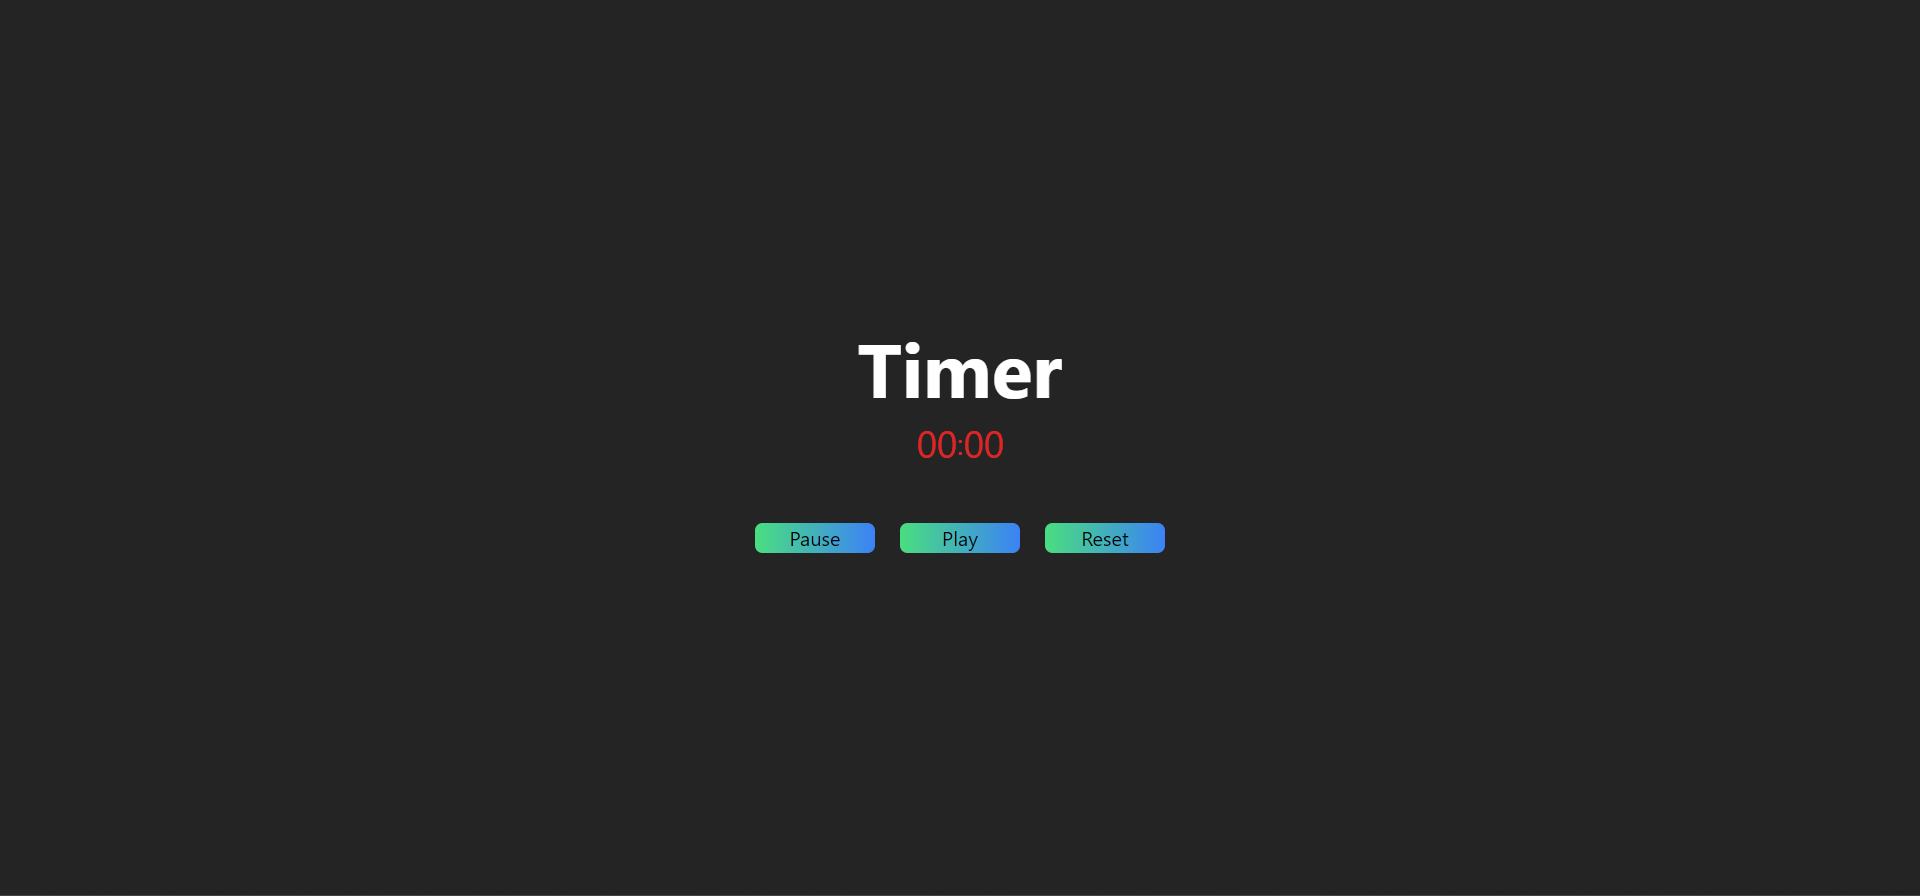
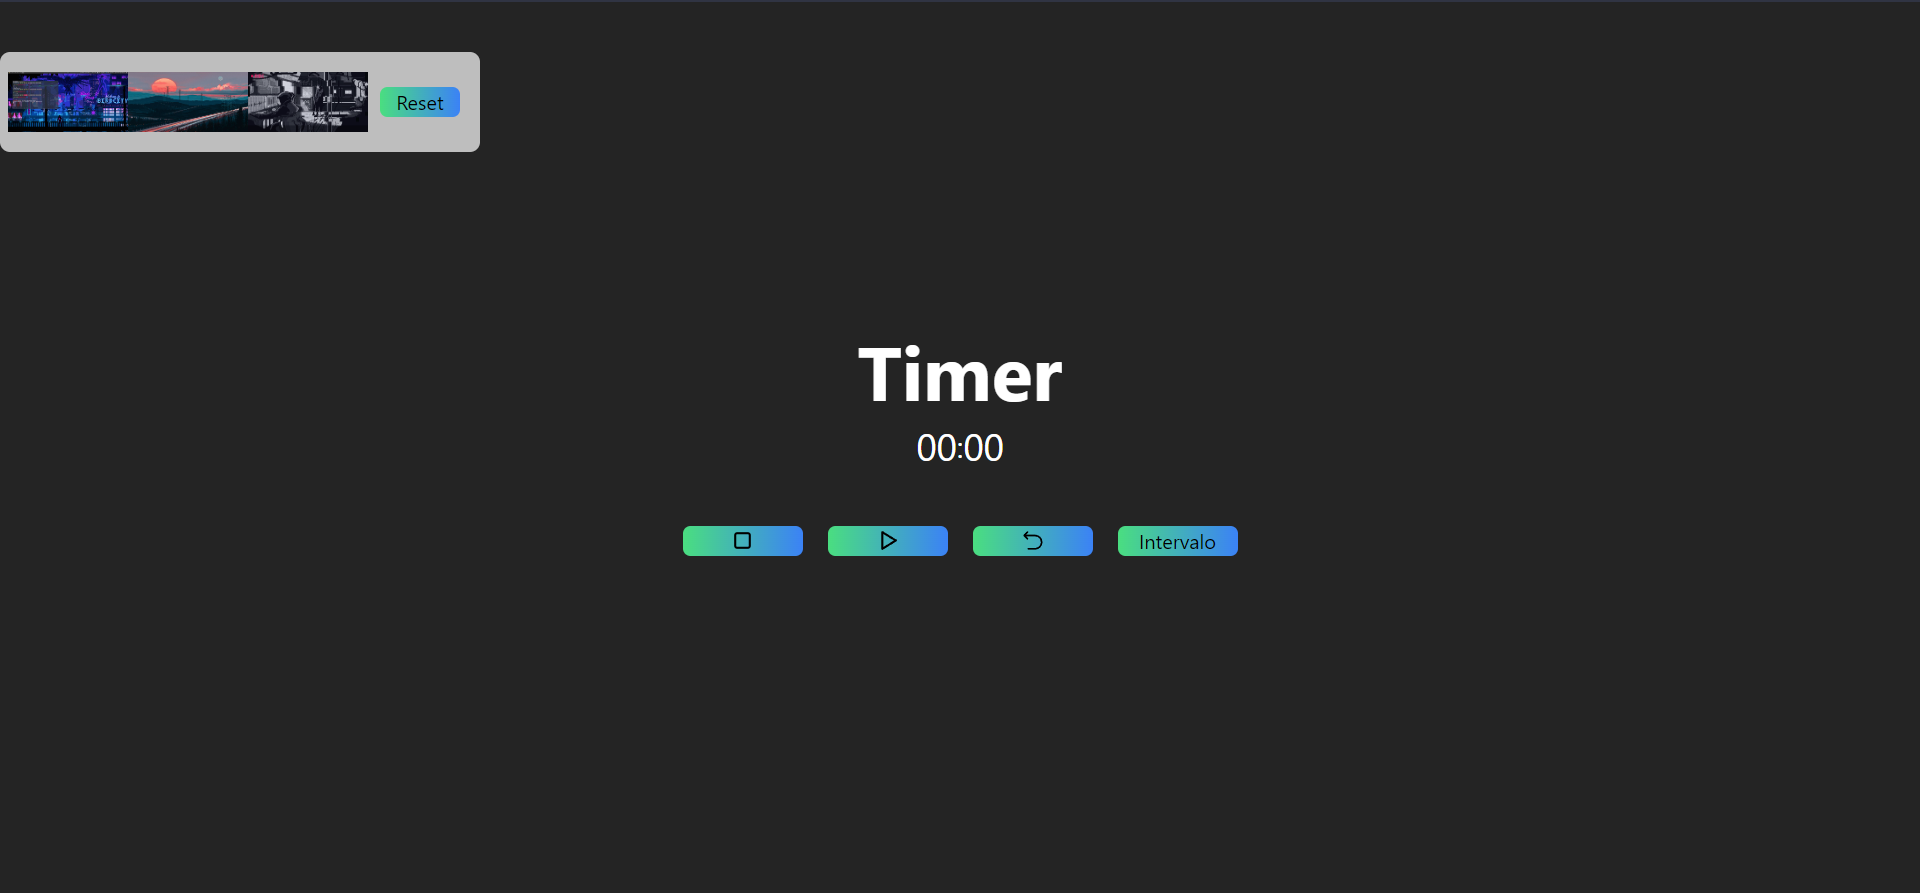
up readme

diff --git a/README.md b/README.md
@@ -22,6 +22,10 @@ Tecnologias utilizadas no Projeto :
 ```
 npm install
 ```
+- React Icons
+```
+npm install react-icons --save
+```
 
 ## 💻 Projeto
 
